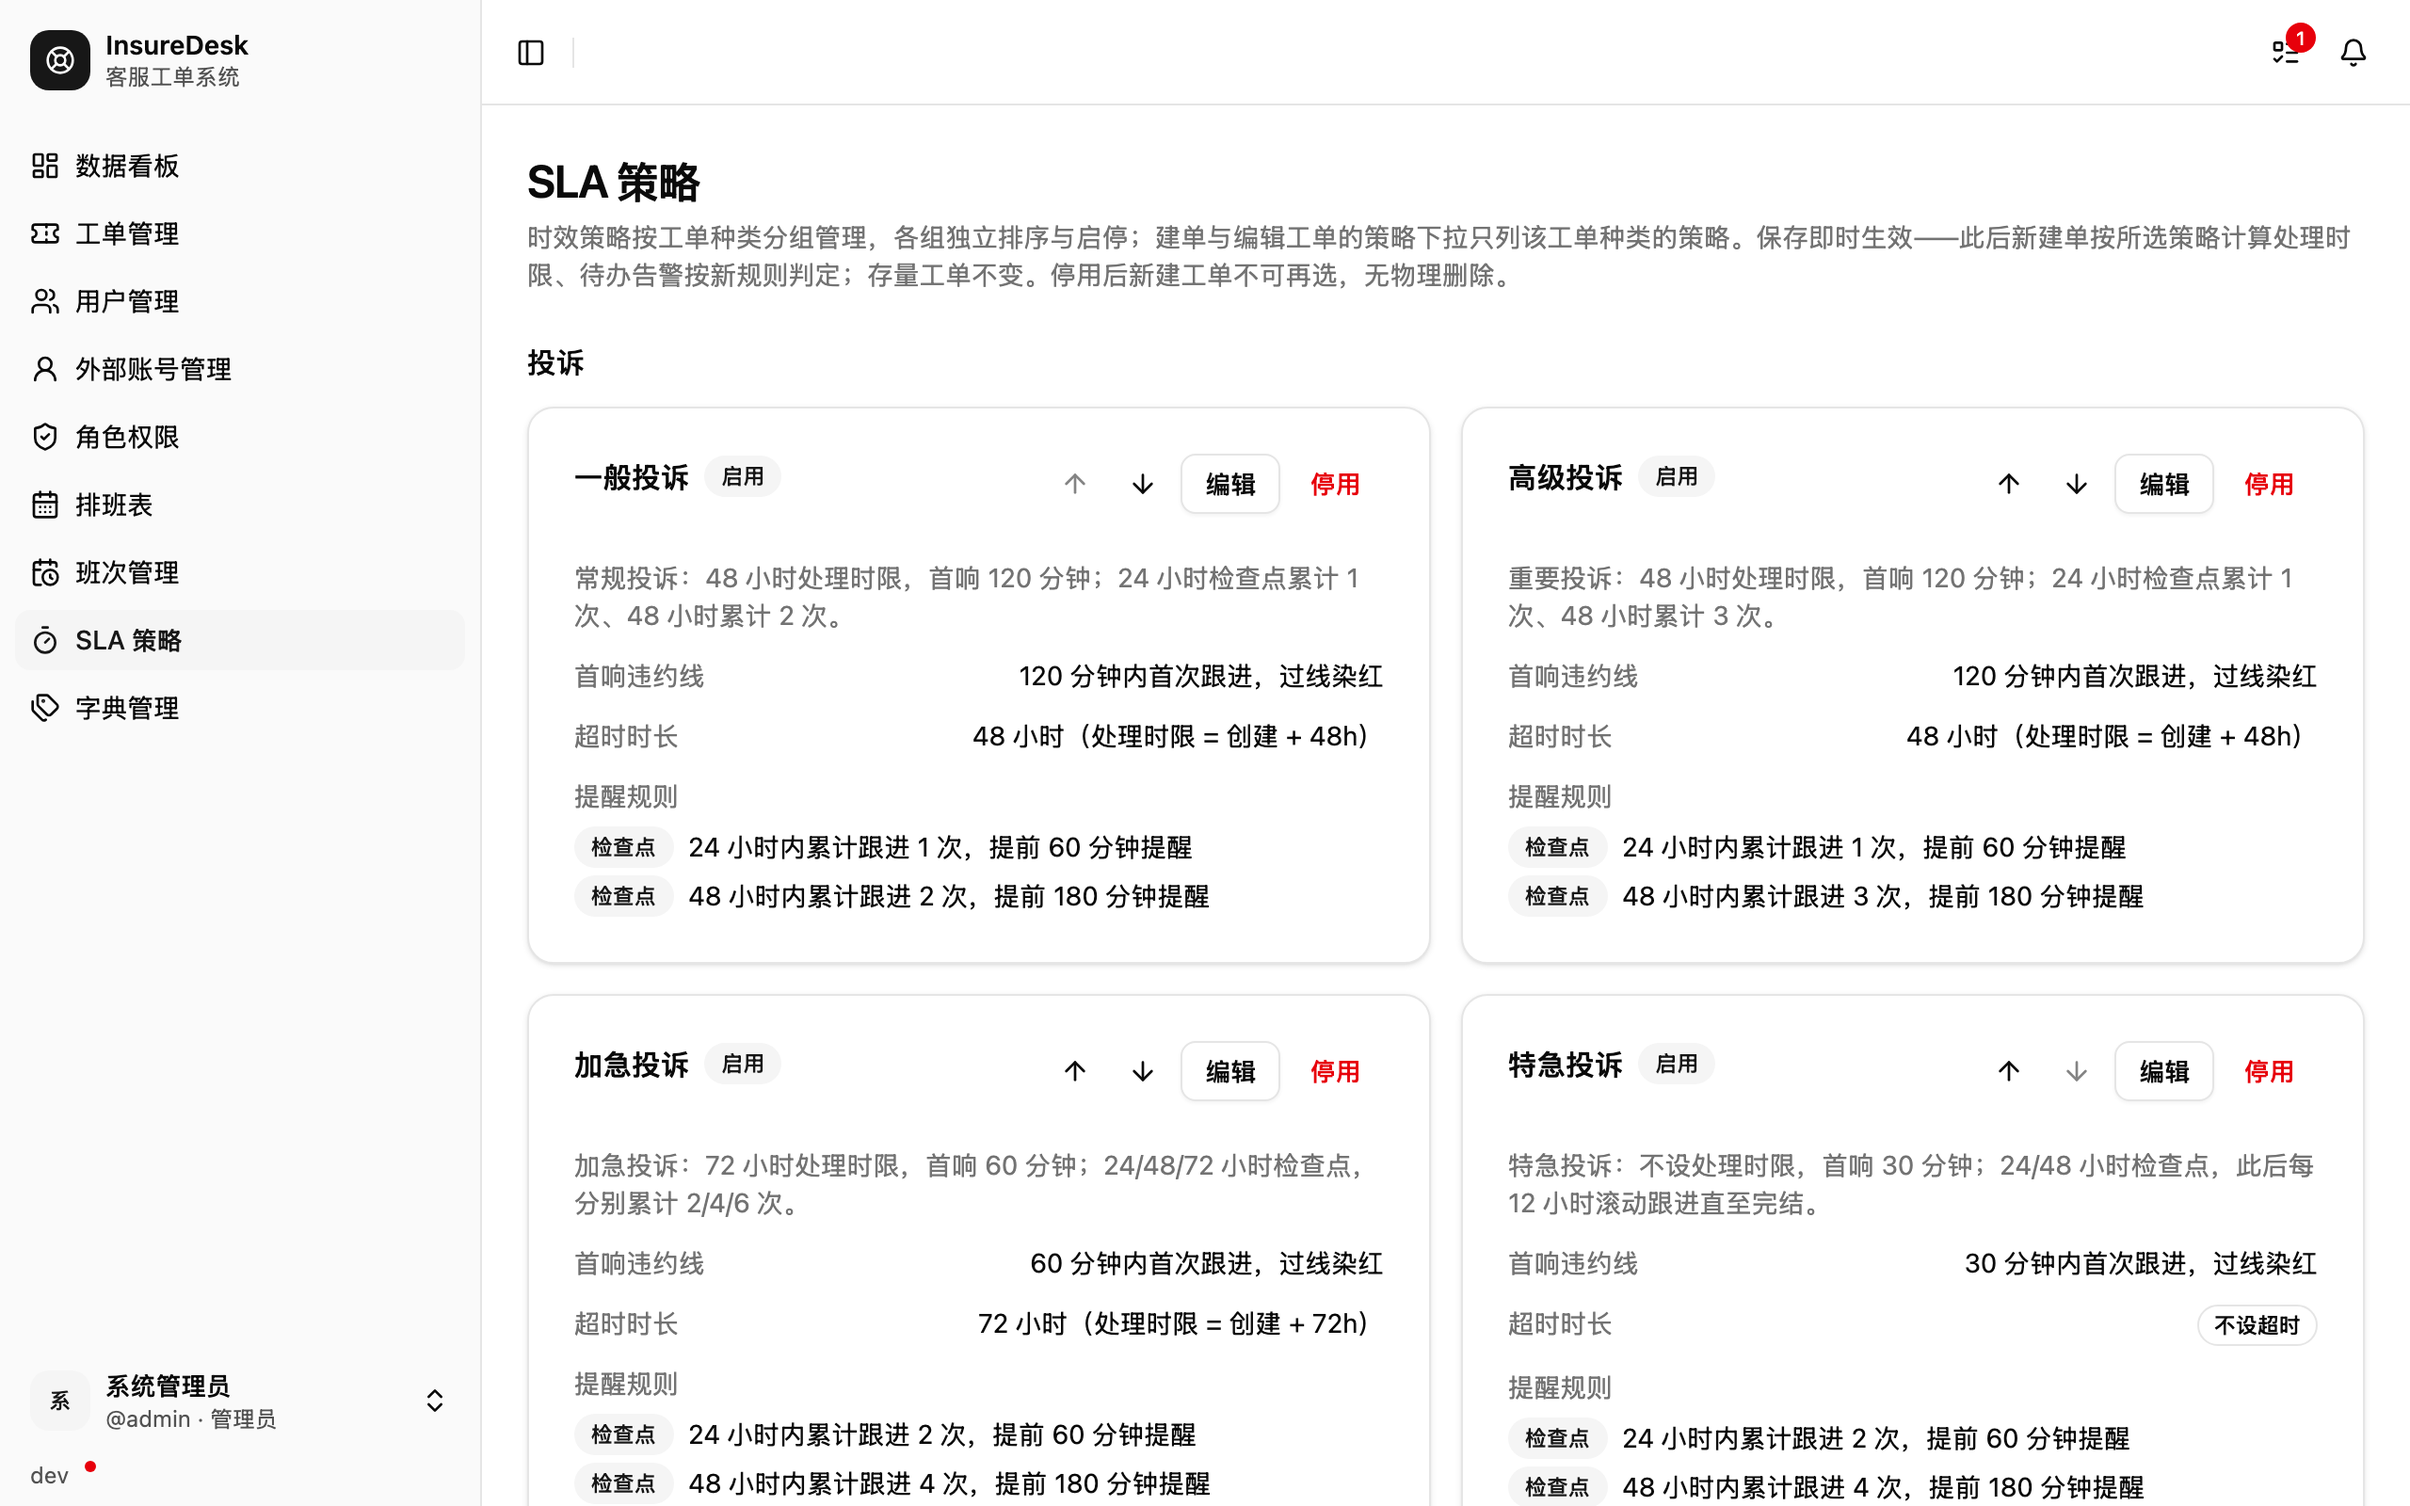
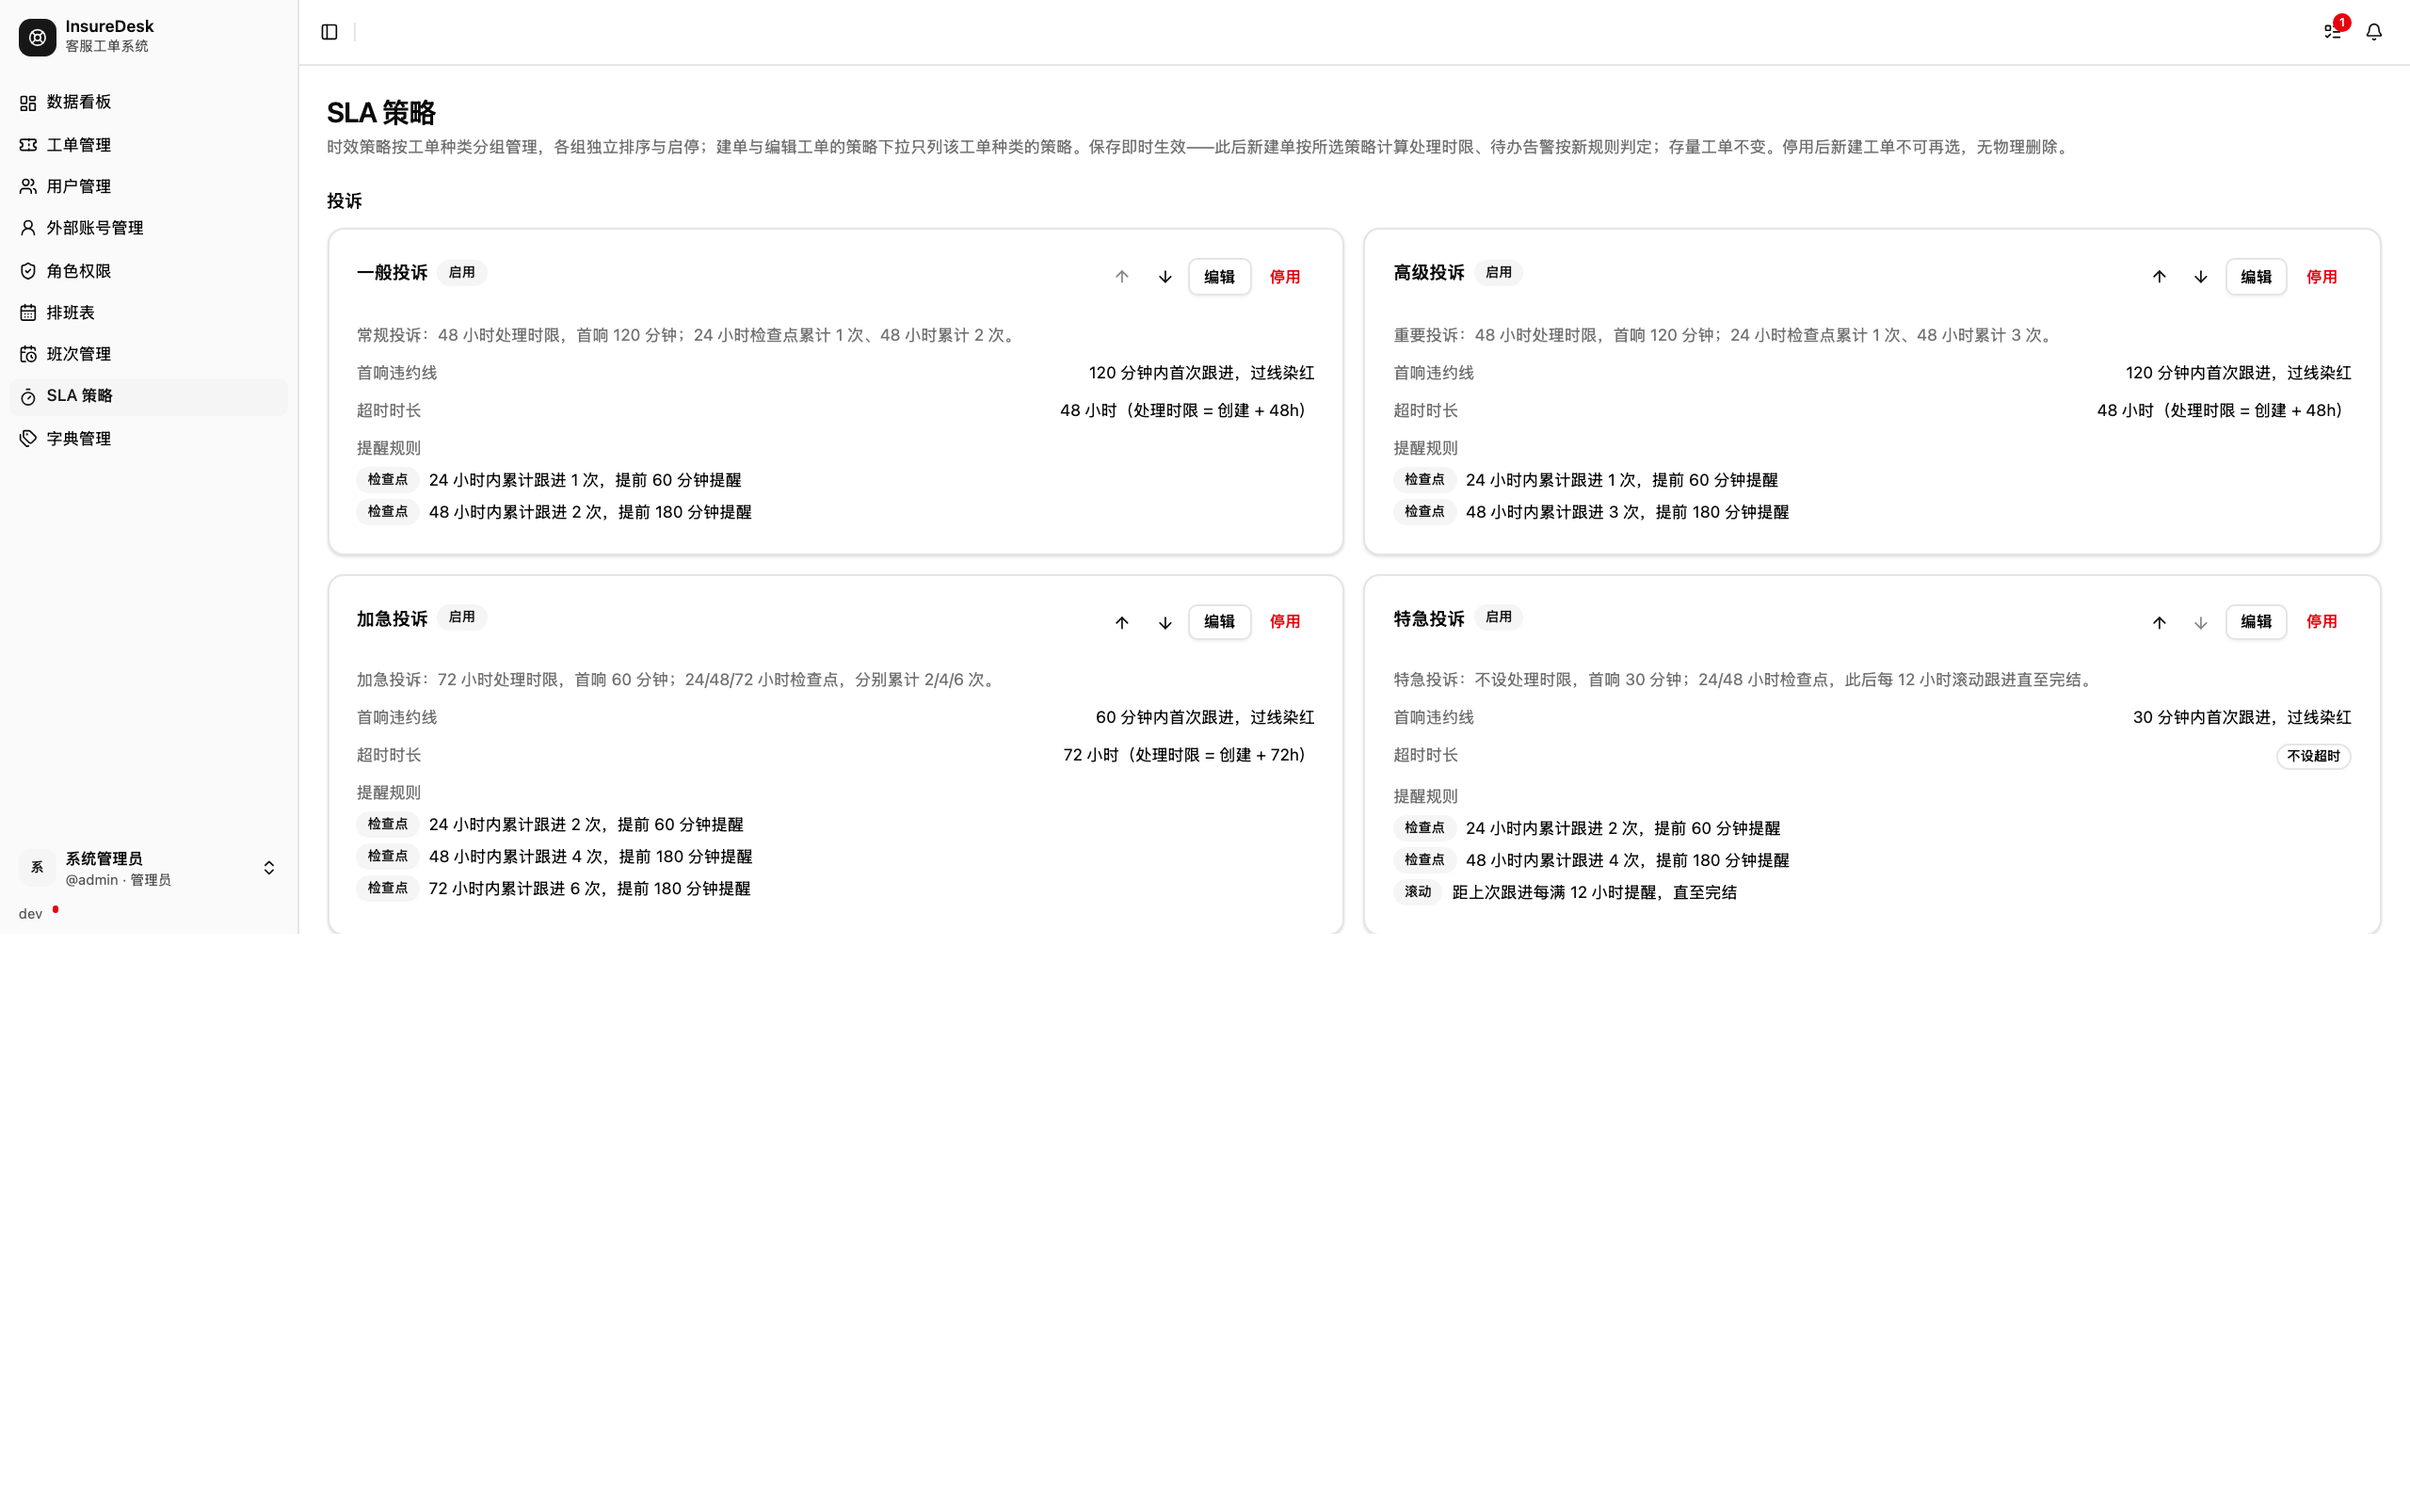
docs(changelog): v2026.09.0 更新日志

diff --git a/changelog/v2026.09.0/sla-kind-groups.page.ts b/changelog/v2026.09.0/sla-kind-groups.page.ts
@@ -1,0 +1,9 @@
+import type { Page } from "playwright";
+
+export default async function prepare(page: Page): Promise<void> {
+  await page.getByRole("heading", { name: "退费异常" }).waitFor();
+  await page.evaluate(() => {
+    document.body.style.zoom = "0.62";
+  });
+  await page.waitForTimeout(300);
+}
